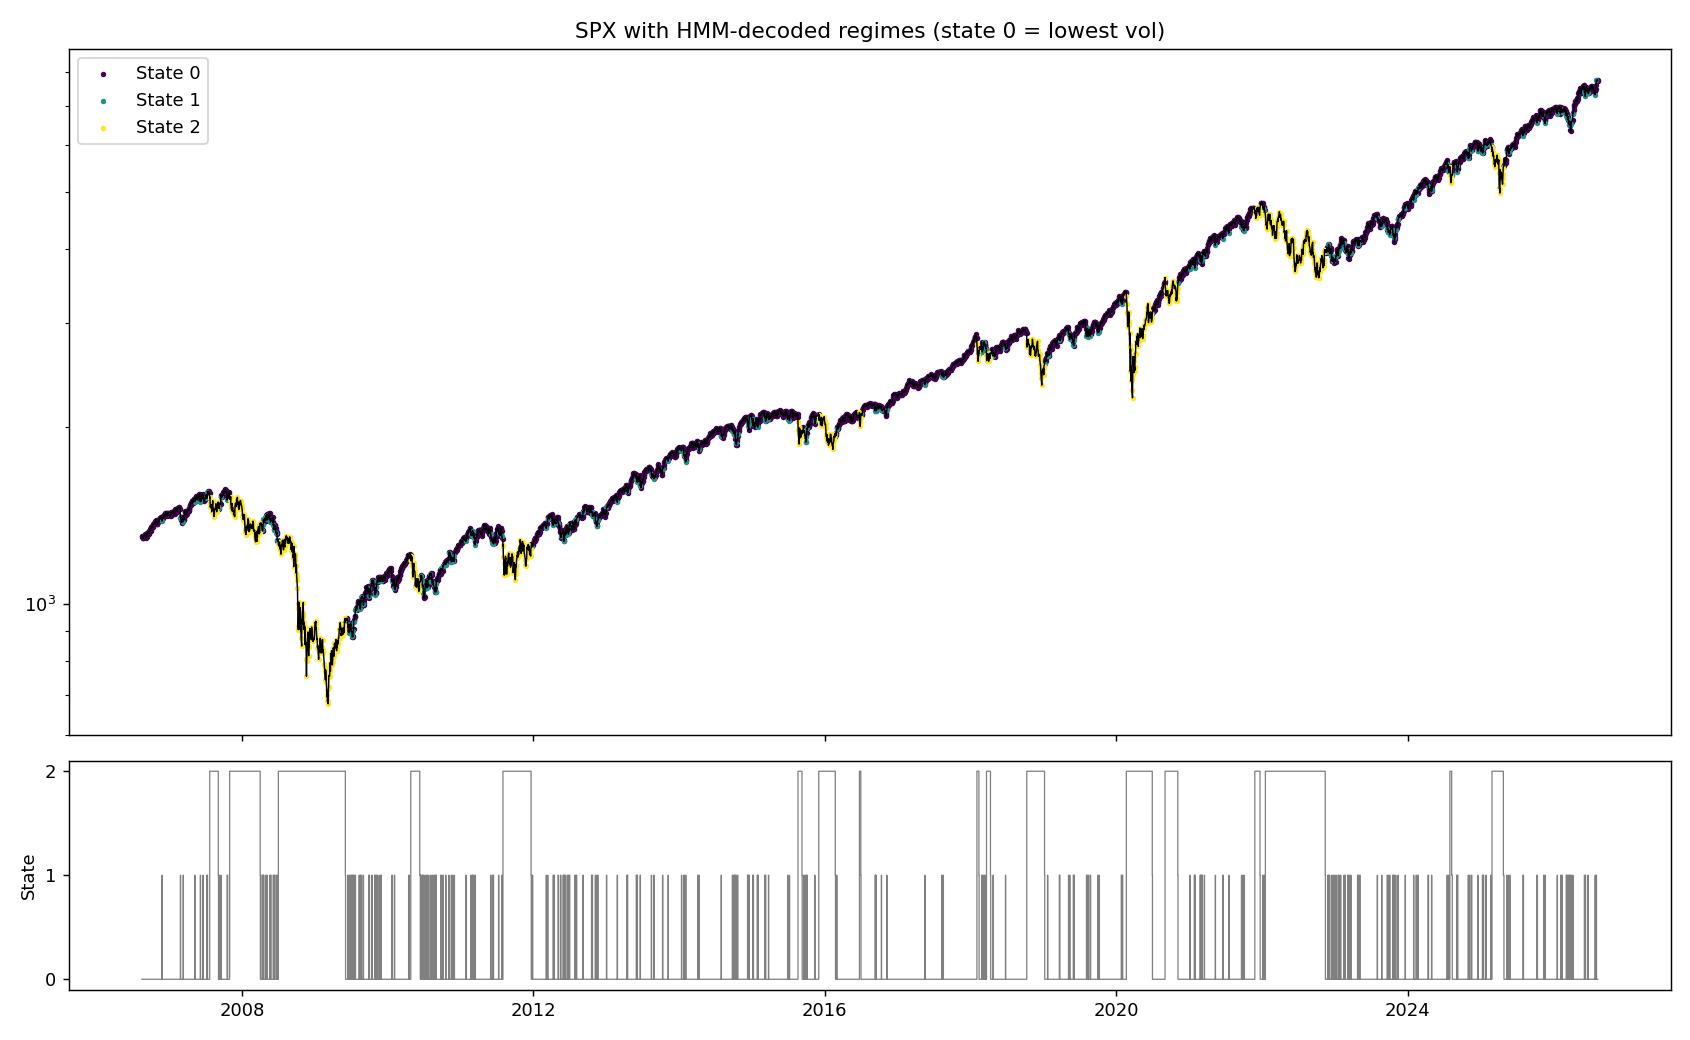
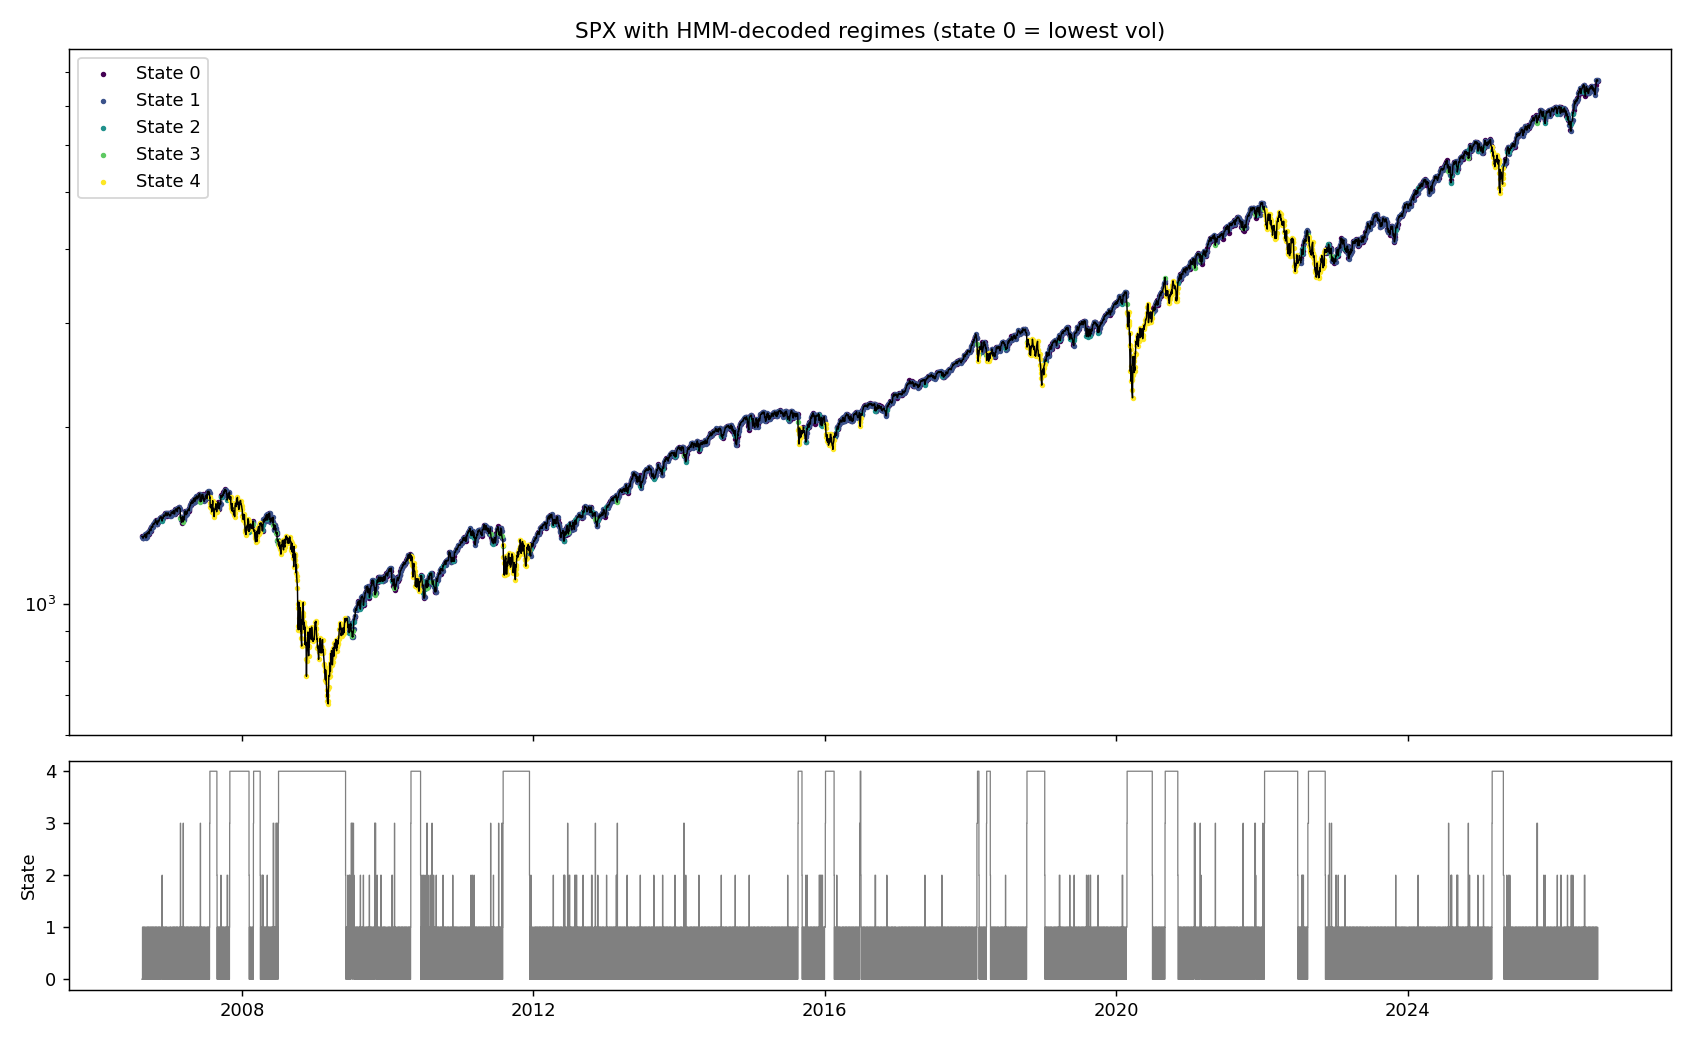
asdf

diff --git a/Regimes/README.md b/Regimes/README.md
@@ -1,19 +1,28 @@
 # Regime Detection
 The paper assumes that the market exists in 1 of 3 volatility regimes. While there is a general consensus that the market will lie in about 3 ranges of volatility, the paper provides no evidence for the exact numbers it uses: 10.2%, 22.1%, 44.8%
 
-# Theory
-To validate the paper's initial claim, this folder looks at historical returns of the SPX(visible states) and identifies 3 levels of volatiliy(hidden states) \ Still assuming a market behavior following a 3-state Hidden Markov Model and the following:
+# Hidden Markov Model Theory
+To validate the paper's initial claim, this folder looks at historical returns of the SPX(visible states) and identifies 3 levels of volatiliy(hidden states) 
+Still assuming a market behavior following a 3-state Hidden Markov Model and the following:
 - The system is in some hidden state $s_t \in {0,1,2}$
 - Conditional on that state, the observed log-return is drawn from a Normal distribution: $r_t \sim N(\mu_{s_t},\sigma_{s_t}^2)$
 - The state itself evolves as a Markov chain: $A_{ij} = P(s_{t+1}=j | s_t = i)$
 
 ### Baum-Welch Algorithm 
 - variation of Expected Maximization for finding unknown parameters of Hidden Markov Model. An implementation is written in the spx_hmm.py file alongside the hmmlearn implementation.
+- This repo uses it to iteratively find the transition matrix and define each regime's descriptive variance.
+- iterively using guesses and their interaction with the observed path to find the true parameter values
 
 #### E-Step(_forward_backwards)
 given current parameter guesses, compute two things for every timestep:
 - $\alpha_t(i)$ = probability of the observations up to time $t$ and being in state $i$ at time $t$ (computed left-to-right, recursively: alpha[t] = (alpha[t-1] @ A) * B[t]
 - $\beta_t(i)$ = probability of all future observations given state $i$ at time $t$ (computed right-to-left)
+
+#### M-step(update)
+- $\pi_i = \gamma_i(i)$
+- $A_{ij} = \frac{\displaystyle\sum_{t=1}^{T-1} \xi_t(i,j)}{\displaystyle\sum_{t=1}^{T-1} \gamma_t(i)}$
+- $\mu_i = \frac{\displaystyle\sum_{t=1}^{T} \gamma_t(i)\, r_t}{\displaystyle\sum_{t=1}^{T} \gamma_t(i)}$
+- $\sigma_i^2 = \frac{\displaystyle\sum_{t=1}^{T} \gamma_t(i)\,\left(r_t - \mu_i\right)^2}{\displaystyle\sum_{t=1}^{T} \gamma_t(i)}$
 
 # This Folder
 - Two implementations: hmmlearn library and from-scratch Baum-Welch/EM implementation
@@ -27,6 +36,9 @@ access to Yahoo/Stooq is NOT available in this sandbox, so fetch that on your
 own machine and point --csv at the result. Any long daily-close series works
 (SPX, SPY, ^GSPC export from Yahoo Finance, stooq.com, FRED, etc).
 ### Usage
-- python spx_hmm.py --csv spx.csv          
+- python spx_hmm.py --csv spx_history.csv          
 - python spx_hmm.py --n-states 3           # override state count
 - python spx_hmm.py --scan-states          # BIC scan over 2..6 states
+
+
+<!-- must assume that hidden and observed states are finite, discrete random variables -->
